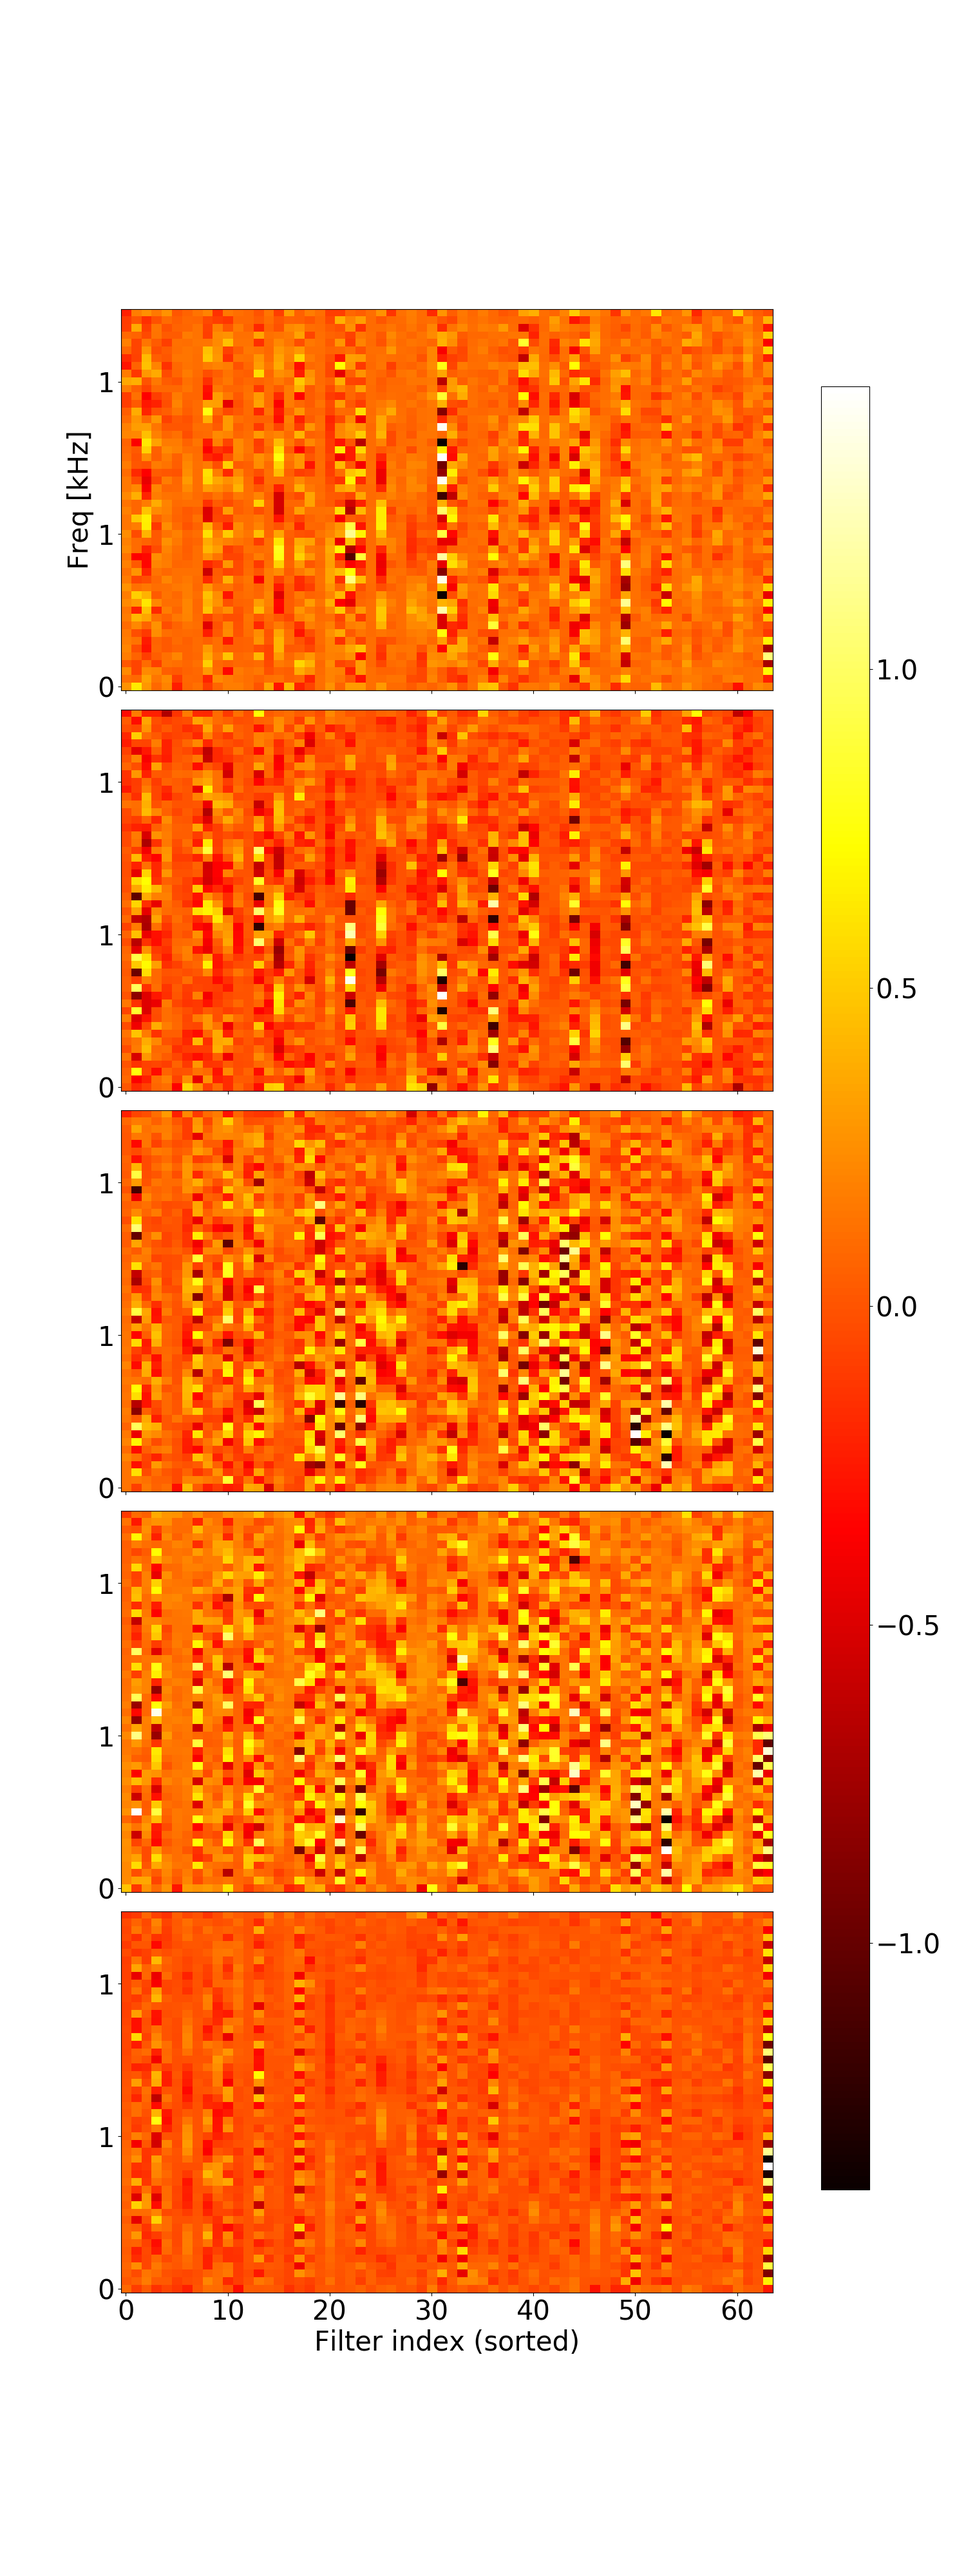
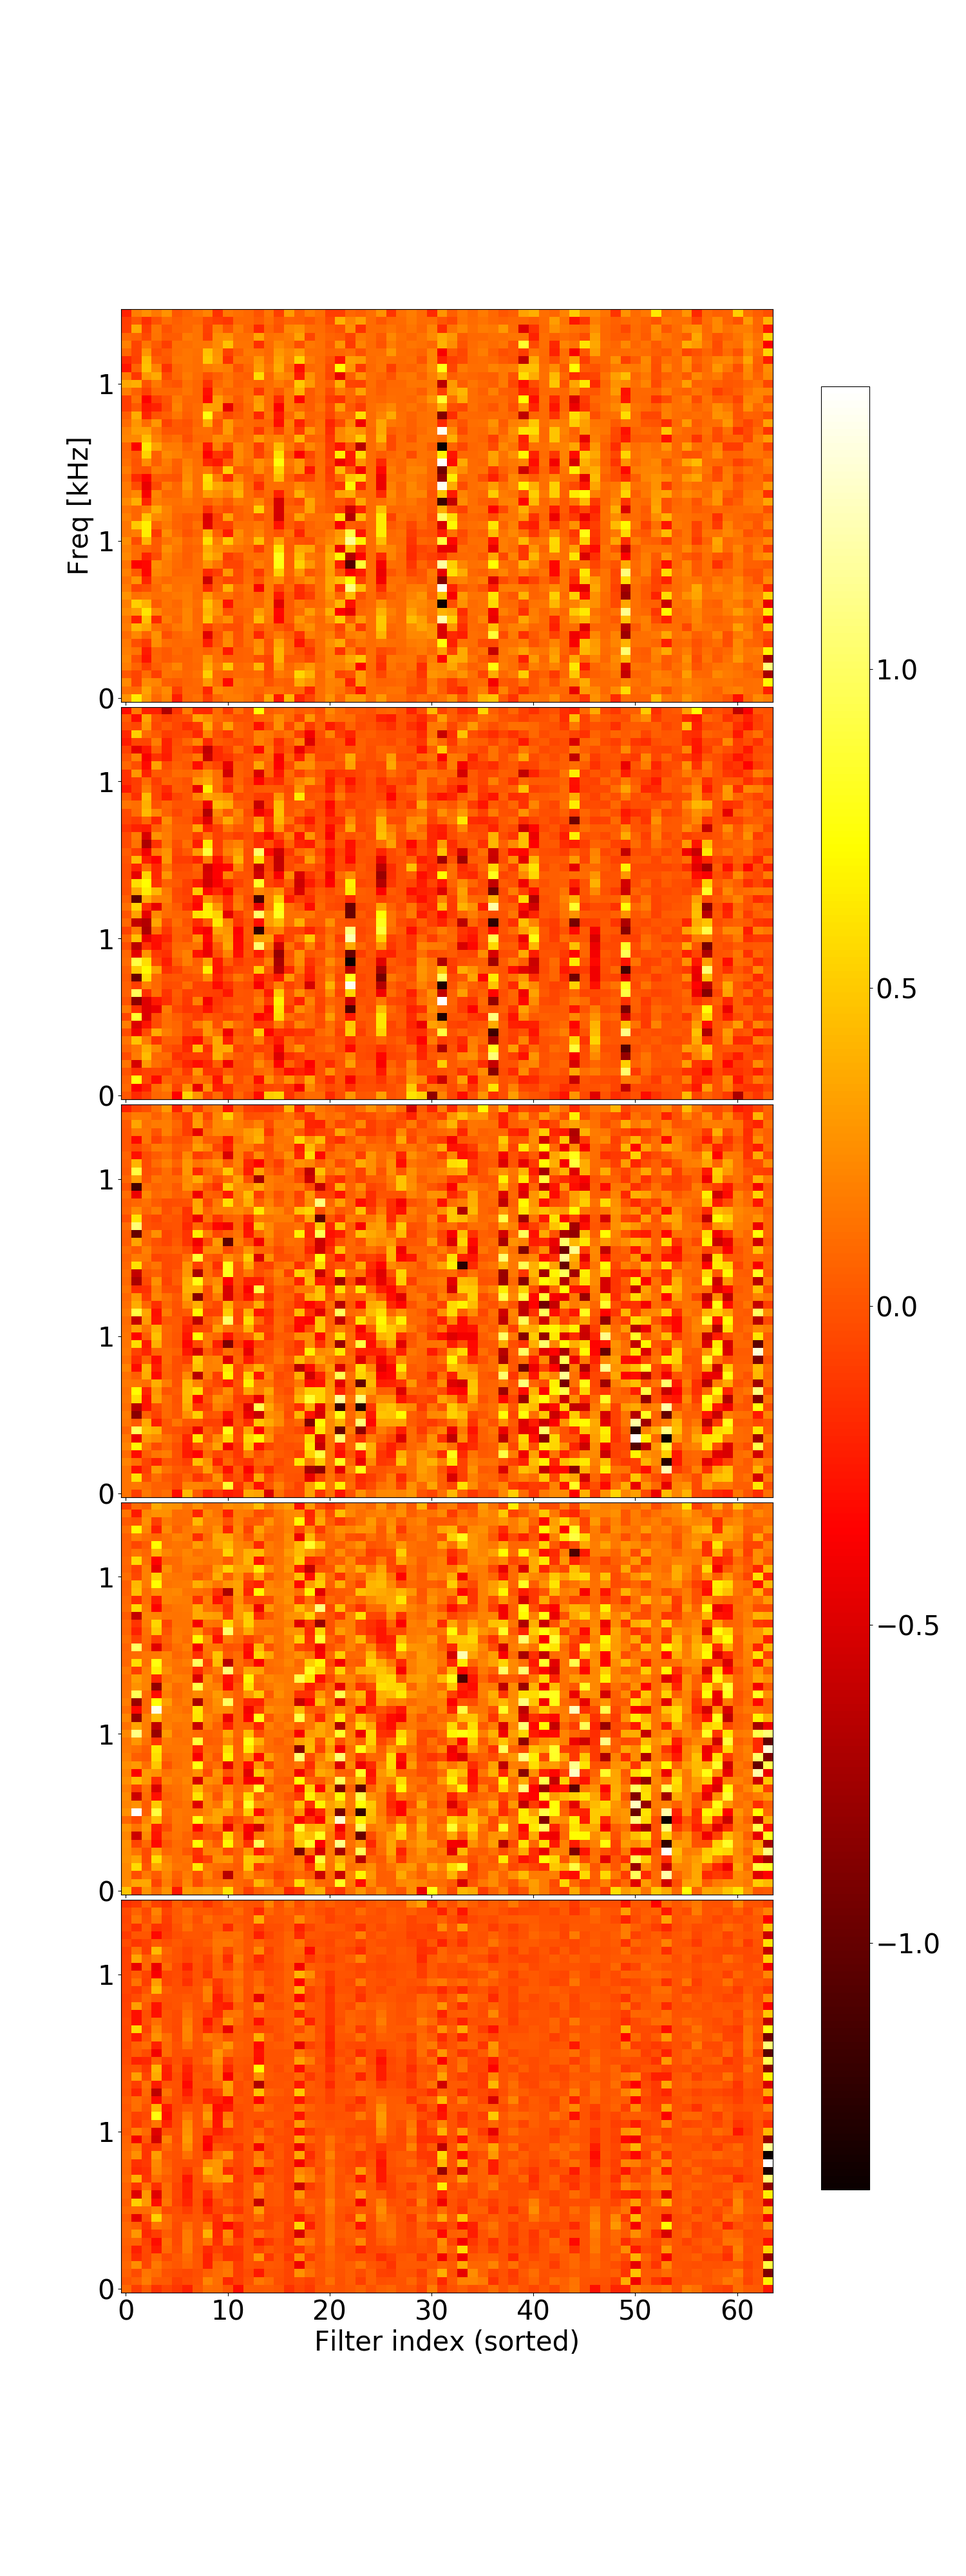
up

diff --git a/returnnTfNetworkLayerPlotter.py b/returnnTfNetworkLayerPlotter.py
@@ -528,11 +528,12 @@ class Plotter(object):
                     im.set_clim(colorInterval[0], colorInterval[1])
                 axs[dimInputIdx][epochRangeIdx].yaxis.set_major_formatter(plt.FuncFormatter(format_func))
                 axs[0][epochRangeIdx].set_ylabel('Freq [kHz]')
+                axs[0][epochRangeIdx].tick_params(axis='y', bottom=False)
 #                axs[dimInputIdx][epochRangeIdx].set_ylabel(self.layer.domain + '_for_channel_' + str(dimInputIdx))
             axs[-1][epochRangeIdx].set_xlabel('Filter index (sorted)')
 #                axs[dimInputIdx][epochRangeIdx].set_xlabel('filterIdx_' + mode + '_for epoch' + '_' + '%03d' % (self.epochRangeToPlot[epochRangeIdx],))
 
-        fig.subplots_adjust(hspace=0.05)
+        fig.subplots_adjust(hspace=0.0125)
         fig.subplots_adjust(right=0.8)
         plt.setp([a.get_xticklabels() for a in fig.axes[:-1]], visible=False)
 
